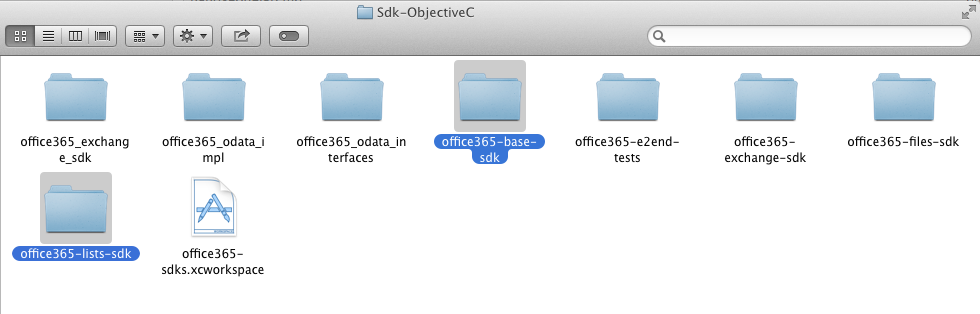
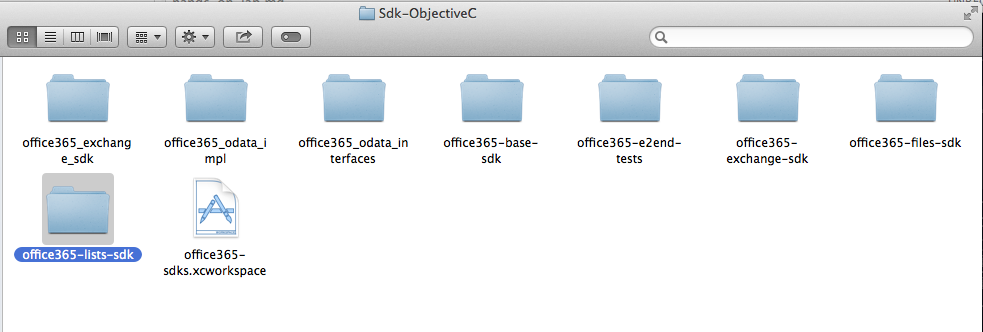
added exercise 2 and tastassks

diff --git a/hands-on-lab.md b/hands-on-lab.md
@@ -22,12 +22,12 @@ The lab lets students use an AzureAD account to manage lists in a O365 Sharepoin
 
 The hands-on lab includes the following exercises:
 
-- [Add O365 iOS sdk's libraries to a project](#exercise1)
+- [Add O365 iOS lists sdk library to the project](#exercise1)
 - [Create a Client class for all operations](#exercise2)
 - [Connect actions in the view to ProjectClient class](#exercise3)
 
 <a name="exercise1"></a>
-##Exercise 1: Add O365 iOS sdk's libraries to a project
+##Exercise 1: Add O365 iOS lists sdk library to a project
 In this exercise you will use an existing application with the AzureAD authentication included, to add the O365 lists sdk library in the project
 and create a client class with empty methods in it to handle the requests to the Sharepoint tenant.
 
@@ -66,6 +66,7 @@ and create a client class with empty methods in it to handle the requests to the
     --We continue with the O365-lists-sdk library import to the project--
     ```
 
+    ![](img/fig.08.png)
 
 ###Task 2 - Import the library
 01. Download a copy of the library using the terminal:
@@ -74,31 +75,85 @@ and create a client class with empty methods in it to handle the requests to the
     git clone 
     ```
 
-02. Open the downloaded folder and copy the **office365-base-sdk** and **office365-lists-sdk** folders under **Sdk-ObjectiveC**. Paste them in a lib folder inside our project path.
+02. Open the downloaded folder and copy **office365-lists-sdk** folder under **Sdk-ObjectiveC**. Paste it in a lib folder inside our project path.
 
     ![](img/fig.02.png)
 
-03. Drag the **office365-base-sdk.xcodeproj** into XCode under our application project.
-
-04. So the same with **office365-lists-sdk.xcodeproj**.
+03. Drag the **office365-lists-sdk.xcodeproj** file into XCode under our application project.
+    
+    ![](img/fig.03.png)
 
 05. Go to project settings selecting the first file from the files explorer. Then click on **Build Phases** and add an entry in the **Target Dependencies** section.
 
-06. Select the **office365-base-sdk** library dependency.
+    ![](img/fig.04.png)
 
-07. Under **Link Binary with Libraries** add an entry pointing to **office365-base-sdk.a** file
+06. Select the **office365-lists-sdk** library dependency.
+
+    ![](img/fig.05.png)
+
+07. Under **Link Binary with Libraries** add an entry pointing to **office365-lists-sdk.a** file
+
+    ![](img/fig.06.png) 
+
+08. Follow 05-07 steps again, this time for the **Extension target**.
+
+    ![](img/fig.15.png)
 
 08. Build and Run the application to check is everithing is ok.
 
+    ![](img/fig.07.png)
 
 <a name="exercise2"></a>
 ##Exercise 2: Create a Client class for all operations
 In this exercise you will create a client class for all the operations related to Projects and References. This class will connect to the **office365-lists-sdk**
 and do some parsing and JSON handling
 
-###Task 1 - Add the ProjectClient methods
+###Task 1 - Create a client class to connect to the o365-lists-sdk
 
-01. Under **client** group, you will see the **ProjectClient.m** class. Open it and check the empty methods:
+01. On the XCode files explorer, under the group **ResearchProjectTrackerApp** you will se a **client** empty folder. Also under **ResearchProjectTrackerExtension/Supporting Files**
+you have another **client** folder.
+
+    ![](img/fig.09.png)
+
+02. On the firt one, make a right click in the client folder and select **New File**. You will see the **New File wizard**. Click on the **iOS** section, select **Cocoa Touch Class** and click **Next**.
+
+    ![](img/fig.10.png)
+
+03. In this section, configure the new class giving it a name (**ProjectClient**), and make it a subclass of **ListClient**. Make sure that the language dropdown is set with **Objective-C** because our o365-lists library is written in this programming language. Finally click **Next**, this will create a **.h** and **.m** files for our new class.
+
+    ![](img/fig.11.png)    
+
+04. Now we are going to select where the new class sources files (.h and .m) will be stored. In this case we can click on **Create** directly.
+
+    ![](img/fig.12.png)
+
+05. Do the same for the other **client** folder under the **ResearchProjectTrackerExtension** in order to create the **ProjectClientEx** class, but in the last step of the wizard, change the target, to add visibility to this scope.
+
+    ![](img/fig.13.png)
+
+06. Now you will have a file structure like this:
+
+    [](img/fig.14.png)
+
+07. Build the Project and you will see 2 errors. To fix them change the import sentences On **ProjectClient.h** and **ProjectClientEx.m**.
+
+    From :
+    ```
+    #import "ListClient.h"
+    ```
+
+    To:
+    ```
+    #import <office365-lists-sdk/ListClient.h>
+    ```
+
+08. Re-build the project and check everything is ok.
+
+
+
+###Task 2 - Add the ProjectClient methods
+
+01. Under **client** group, you will see the **ProjectClient.h** class. Open it and check the empty methods:
 
     ```
     - (NSURLSessionDataTask *)getReferencesByProjectId:(NSString *)projectId callback:(void (^)(NSMutableArray *listItems, NSError *error))callback;
